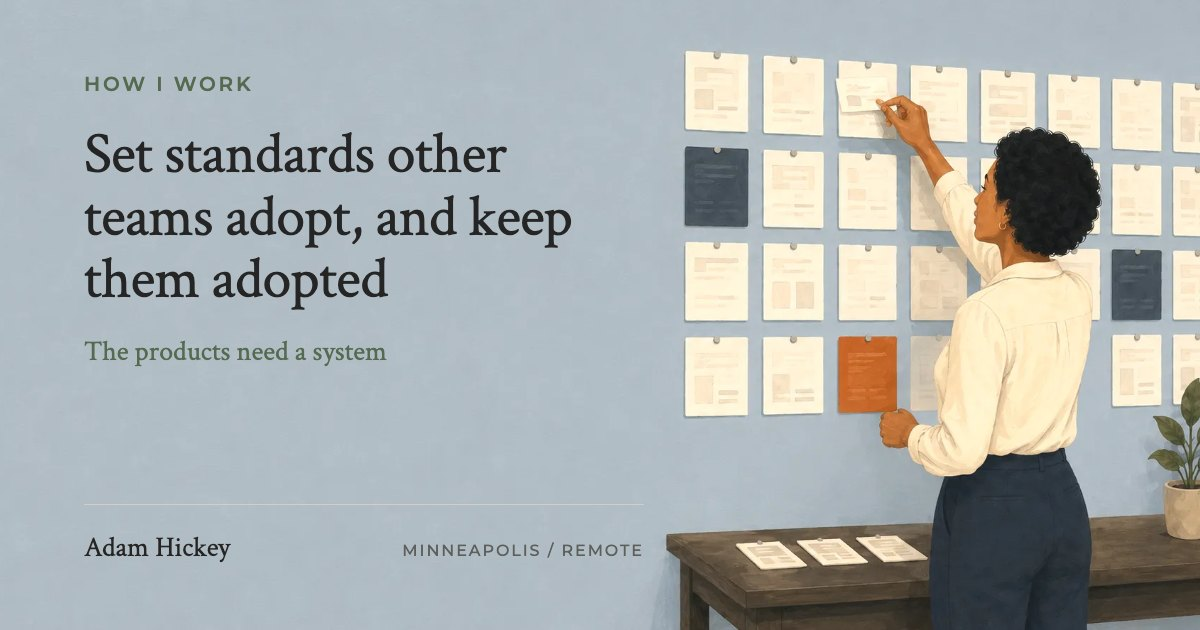
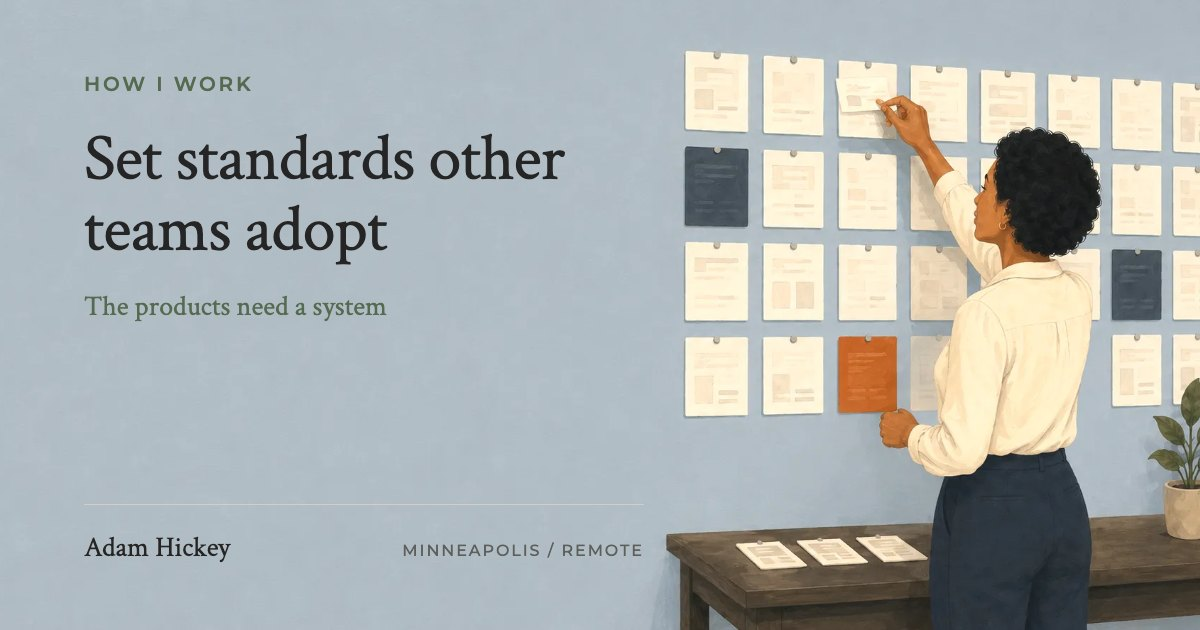
The design system engagement is "Set standards other teams adopt": the second clause is gone
Its h1, its WebPage and breadcrumb names, its share card, the homepage
card, the three sibling engagements' fit links and the prototype
engagement's closing link, llms.txt, and the three body-prose links on the
SAP case study and two articles that quoted the name in a sentence. The
og.mjs and proof-cards.mjs registries move with it, and the card is
re-rendered with its cache-buster bumped. The <title> is search language
and does not carry the name, so it stays.

Fast five pass. Copy only, so no browser check.

Changed region(s): [[0.0617, 0.2111, 0.4933, 0.5127], [0.0617, 0.5429, 0.3392, 0.573]]

diff --git a/engagement/design-system-foundation.html b/engagement/design-system-foundation.html
@@ -19,7 +19,7 @@
   <meta property="og:url" content="https://adamhickey.com/engagement/design-system-foundation.html" />
   <meta property="og:title" content="Enterprise Design Systems for Product Teams | Adam Hickey" />
   <meta property="og:description" content="How I turn several versions of the same component into one shared foundation the teams actually use, with the operating rules that keep it adopted: the steps, and the numbers." />
-  <meta property="og:image" content="https://adamhickey.com/img/og/design-system-foundation.jpg?v=2" />
+  <meta property="og:image" content="https://adamhickey.com/img/og/design-system-foundation.jpg?v=3" />
   <meta property="og:image:width" content="1200" />
   <meta property="og:image:height" content="630" />
   <meta name="twitter:card" content="summary_large_image" />
@@ -91,7 +91,7 @@
           "@type": "WebPage",
           "@id": "https://adamhickey.com/engagement/design-system-foundation.html#page",
           "url": "https://adamhickey.com/engagement/design-system-foundation.html",
-          "name": "Set standards other teams adopt, and keep them adopted",
+          "name": "Set standards other teams adopt",
           "description": "Turn four versions of the same data table into one shared foundation the teams actually use, with the operating rules that keep it that way.",
           "about": {
             "@id": "https://adamhickey.com/#adam"
@@ -119,7 +119,7 @@
             {
               "@type": "ListItem",
               "position": 3,
-              "name": "Set standards other teams adopt, and keep them adopted",
+              "name": "Set standards other teams adopt",
               "item": "https://adamhickey.com/engagement/design-system-foundation.html"
             }
           ]
@@ -293,7 +293,7 @@
         <div class="container case-wide">
           <div class="eng3-hero-inner">
             <p class="eng3-kicker">How I work &middot; The products need a system</p>
-            <h1>Set standards other teams adopt, and keep them adopted</h1>
+            <h1>Set standards other teams adopt</h1>
             <p class="eng3-dek">Turn four versions of the same data table into one shared foundation the teams actually use, with the operating rules that keep it that way.</p>
           </div>
         </div>

diff --git a/writing/what-makes-an-interface-feel-finished.html b/writing/what-makes-an-interface-feel-finished.html
@@ -353,7 +353,7 @@
              engagement it describes and the account it draws on. A text line
              rather than a pitch, for the same reason the case studies end on
              one. -->
-        <p class="build-service">If this is the situation you are in: <a href="../engagement/design-system-foundation.html">how I set standards other teams adopt, and keep them adopted</a>, one shared foundation with the rules that keep it that way. The account this draws on: <a href="../case-study/this-site.html">How I built this site</a>, where every rule above is a check, and <a href="../prototype/dispatch-cockpit.html">the dispatch cockpit</a>, where the states are the interface.</p>
+        <p class="build-service">If this is the situation you are in: <a href="../engagement/design-system-foundation.html">how I set standards other teams adopt</a>, one shared foundation with the rules that keep it that way. The account this draws on: <a href="../case-study/this-site.html">How I built this site</a>, where every rule above is a check, and <a href="../prototype/dispatch-cockpit.html">the dispatch cockpit</a>, where the states are the interface.</p>
         <a class="build-next" href="what-does-a-product-design-engineer-actually-do.html">
           <span class="build-next-eyebrow">Next</span>
           <span class="build-next-title">What does a product design engineer actually do? &rarr;</span>

diff --git a/engagement/working-product-prototype.html b/engagement/working-product-prototype.html
@@ -526,7 +526,7 @@
             <li>
               <span class="fact-node"><svg class="fact-icon" style="--i:2" viewBox="0 0 24 24" aria-hidden="true"><path pathLength="1" d="M4.2 4.2h6.4v6.4H4.2z"/><path pathLength="1" d="M13.4 4.2h6.4v6.4h-6.4z"/><path pathLength="1" d="M4.2 13.4h6.4v6.4H4.2z"/><path pathLength="1" d="M13.4 13.4h6.4v6.4h-6.4z"/></svg></span>
               <p>Several teams need one shared foundation.</p>
-              <a href="design-system-foundation.html">Set standards other teams adopt, and keep them adopted&nbsp;&rarr;</a>
+              <a href="design-system-foundation.html">Set standards other teams adopt&nbsp;&rarr;</a>
             </li>
           </ul>
         </div>
@@ -603,7 +603,7 @@
       <div class="container case-wide">
         <a href="design-system-foundation.html" class="eng3-closing-next">
           <span class="eng3-closing-next-eyebrow">Next &middot; How I work</span>
-          <span class="eng3-closing-next-title">Set standards other teams adopt, and keep them adopted &rarr;</span>
+          <span class="eng3-closing-next-title">Set standards other teams adopt &rarr;</span>
           <span class="eng3-closing-next-dek">The products need a system</span>
         </a>
       </div>

diff --git a/writing/standardizing-ux-across-40-sap-fiori-apps.html b/writing/standardizing-ux-across-40-sap-fiori-apps.html
@@ -375,7 +375,7 @@
              engagement it describes and the account it draws on. A text line
              rather than a pitch, for the same reason the case studies end on
              one. -->
-        <p class="build-service">If this is the situation you are in: <a href="../engagement/design-system-foundation.html">how I set standards other teams adopt, and keep them adopted</a>, the same moves in order. The account this draws on: <a href="../case-study/sap-product-maturity.html">Making 40+ enterprise apps feel like one product</a>.</p>
+        <p class="build-service">If this is the situation you are in: <a href="../engagement/design-system-foundation.html">how I set standards other teams adopt</a>, the same moves in order. The account this draws on: <a href="../case-study/sap-product-maturity.html">Making 40+ enterprise apps feel like one product</a>.</p>
         <a class="build-next" href="what-microsofts-hax-framework-gets-right-about-enterprise-ai.html">
           <span class="build-next-eyebrow">Next</span>
           <span class="build-next-title">What Microsoft&rsquo;s HAX framework gets right about enterprise AI &rarr;</span>

diff --git a/case-study/sap-product-maturity.html b/case-study/sap-product-maturity.html
@@ -254,7 +254,7 @@
         <p>Describe what is happening, in a few sentences. I will tell you plainly whether one of my engagements fits, and if none of them do, I will say so.</p>
         <a class="case-ask-link" href="../index.html#contact">Start a conversation &rarr;</a>
       </div>
-      <p class="case-closing-service">One shared foundation and the operating rules that keep it: <a href="../engagement/design-system-foundation.html">how I set standards other teams adopt, and keep them adopted</a>.</p>
+      <p class="case-closing-service">One shared foundation and the operating rules that keep it: <a href="../engagement/design-system-foundation.html">how I set standards other teams adopt</a>.</p>
       <a href="usda-operational-overhead.html" class="case-closing-next"><span class="case-closing-next-eyebrow">Next case study</span><span class="case-closing-next-title">Grant tools unified into one trusted platform &rarr;</span></a>
     </div>
   </footer>

diff --git a/engagement/product-clarity.html b/engagement/product-clarity.html
@@ -481,7 +481,7 @@
             <li>
               <span class="fact-node"><svg class="fact-icon" style="--i:1" viewBox="0 0 24 24" aria-hidden="true"><path pathLength="1" d="M4.2 4.2h6.4v6.4H4.2z"/><path pathLength="1" d="M13.4 4.2h6.4v6.4h-6.4z"/><path pathLength="1" d="M4.2 13.4h6.4v6.4H4.2z"/><path pathLength="1" d="M13.4 13.4h6.4v6.4h-6.4z"/></svg></span>
               <p>Several teams are solving the same problem in different ways.</p>
-              <a href="design-system-foundation.html">Set standards other teams adopt, and keep them adopted&nbsp;&rarr;</a>
+              <a href="design-system-foundation.html">Set standards other teams adopt&nbsp;&rarr;</a>
             </li>
             <li>
               <span class="fact-node"><svg class="fact-icon" style="--i:2" viewBox="0 0 24 24" aria-hidden="true"><path pathLength="1" d="M3.4 11 20.6 3.8 17 20.2l-5.3-6.3z"/><path pathLength="1" d="M20.6 3.8 11.7 13.9"/></svg></span>

diff --git a/engagement/embedded-senior-product-design.html b/engagement/embedded-senior-product-design.html
@@ -462,7 +462,7 @@
             <li>
               <span class="fact-node"><svg class="fact-icon" style="--i:1" viewBox="0 0 24 24" aria-hidden="true"><path pathLength="1" d="M4.2 4.2h6.4v6.4H4.2z"/><path pathLength="1" d="M13.4 4.2h6.4v6.4h-6.4z"/><path pathLength="1" d="M4.2 13.4h6.4v6.4H4.2z"/><path pathLength="1" d="M13.4 13.4h6.4v6.4h-6.4z"/></svg></span>
               <p>Several teams need one shared foundation.</p>
-              <a href="design-system-foundation.html">Set standards other teams adopt, and keep them adopted&nbsp;&rarr;</a>
+              <a href="design-system-foundation.html">Set standards other teams adopt&nbsp;&rarr;</a>
             </li>
             <li>
               <span class="fact-node"><svg class="fact-icon" style="--i:2" viewBox="0 0 24 24" aria-hidden="true"><path pathLength="1" d="M3.4 11 20.6 3.8 17 20.2l-5.3-6.3z"/><path pathLength="1" d="M20.6 3.8 11.7 13.9"/></svg></span>

diff --git a/index.html b/index.html
@@ -666,7 +666,7 @@
           <a class="engagement-card reveal" href="engagement/design-system-foundation.html">
             <span class="engagement-num" aria-hidden="true">02</span>
             <div class="engagement-figure"><img src="img/engagement/02-system.webp?v=9" width="1080" height="720" alt="A loose pile of index cards on a slate-blue surface, each with the same layout sketched a little differently in pencil, beside a tidy grid of identical cards stamped in navy ink and the terracotta rubber stamp that printed them" loading="lazy" decoding="async" /></div>
-            <h3>Set standards other teams adopt, and keep them adopted</h3>
+            <h3>Set standards other teams adopt</h3>
             <ul class="engagement-points">
               <li>One design system across 40+ SAP apps</li>
               <li>Quality checks written into the release process</li>
